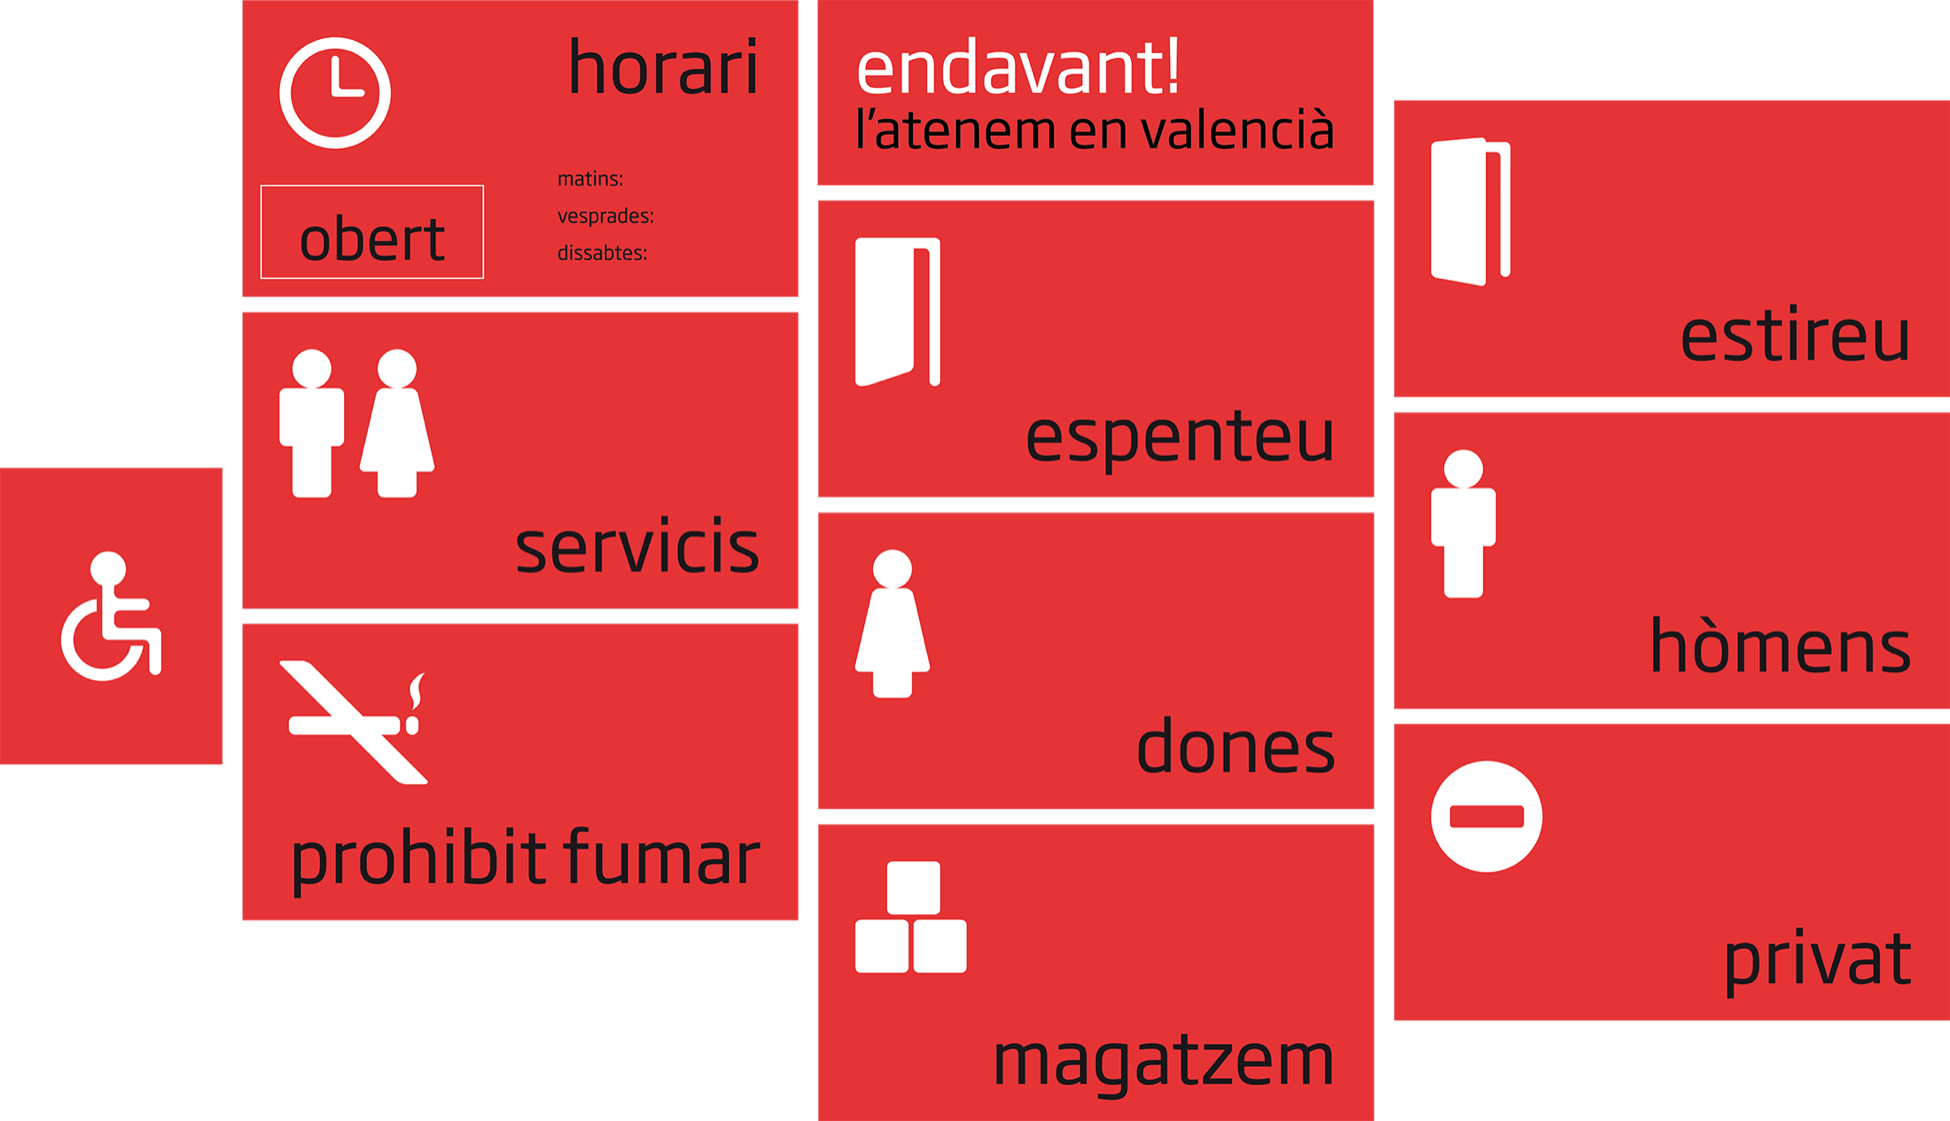
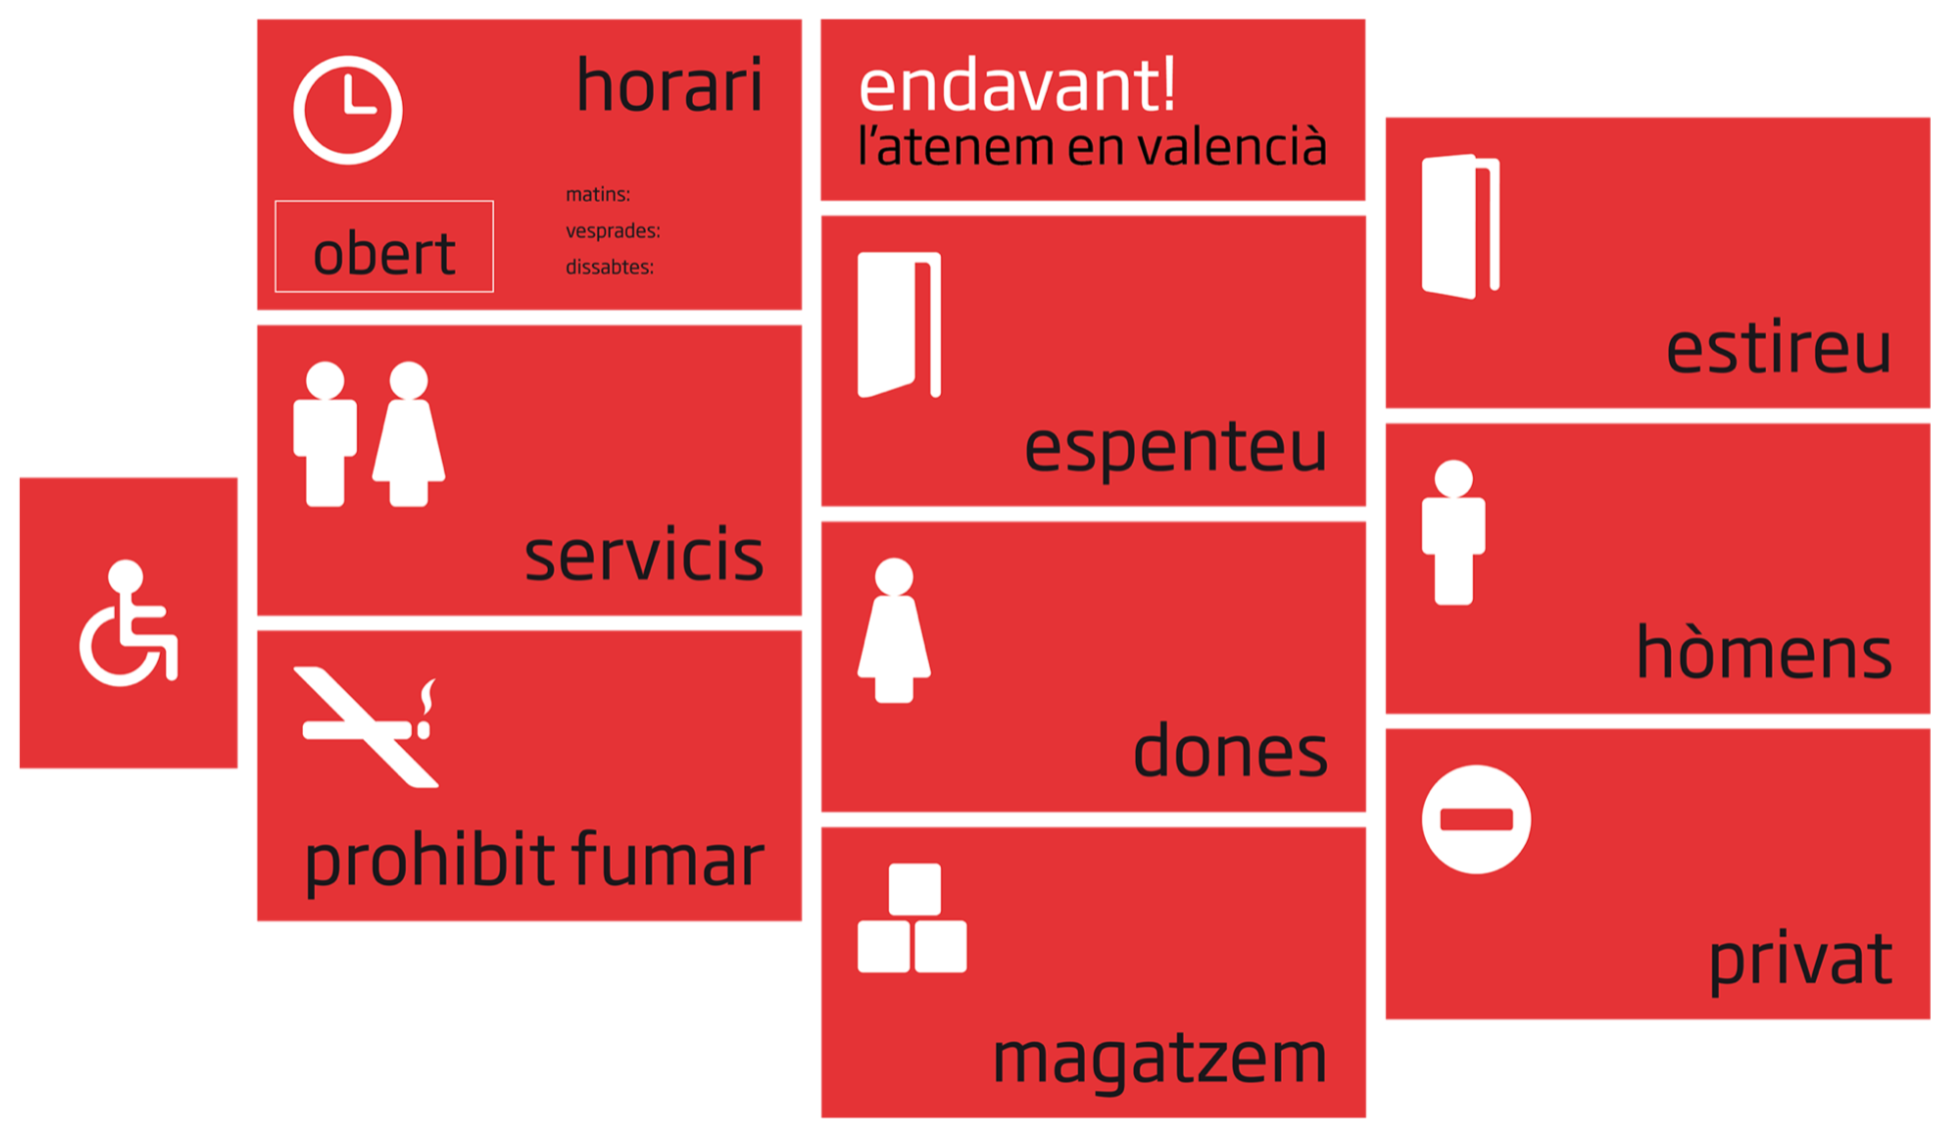
feat: color tweaks
- background is a faint version of the primary color instead of white
- replace light version of primary with dark version for better contrast/accesibility
- slight adjustment to anchor color
- add border to images in project pages

Changed region(s): [[0.0, 0.0, 1.0, 1.0]]

diff --git a/src/styles/globals.scss b/src/styles/globals.scss
@@ -1,13 +1,13 @@
 :root {
-	--color-background: hsl(0deg, 0%, 100%);
+	--color-anchor: hsl(from var(--color-primary) calc(h + 185) s calc(l - 15));
+	--color-background: hsl(from var(--color-primary) h s calc(l + 40));
 	--color-background-dark: hsl(from var(--color-background) h s calc(l - 10));
-	--color-primary: hsl(28.5deg, 91.74%, 57.25%);
-	--color-primary-light: hsl(from var(--color-primary) h s calc(l + 20));
 	--color-foreground: hsl(
 		from var(--color-primary) calc(h + 165) s calc(l - 45)
 	);
 	--color-foreground-light: hsl(from var(--color-foreground) h s calc(l + 15));
-	--color-anchor: hsl(from var(--color-primary) calc(h + 180) s calc(l - 20));
+	--color-primary: hsl(28.5deg, 91.74%, 57.25%);
+	--color-primary-dark: hsl(from var(--color-primary) h s calc(l - 20));
 	--cubic-bezier-ease-in: cubic-bezier(0.3, 0, 1, 1);
 	--cubic-bezier-ease-out: cubic-bezier(0, 0, 0.7, 1);
 	--font-stack-sans: 'Source Sans 3', 'Source Sans 3 Fallback', sans-serif;

diff --git a/src/styles/project-page.module.scss b/src/styles/project-page.module.scss
@@ -4,6 +4,8 @@
 	@extend %text-wrap;
 
 	img {
+		background: #fff;
+		border: 1px solid var(--color-background-dark);
 		border-radius: var(--spacing);
 		height: auto;
 		margin-top: var(--margin-extrasmall);
@@ -12,10 +14,6 @@
 
 	:global(.two-col-images) {
 		margin-top: var(--margin-extrasmall);
-
-		img {
-			border: 1px solid var(--color-background-dark);
-		}
 	}
 }
 

diff --git a/src/layouts/layout.module.scss b/src/layouts/layout.module.scss
@@ -1,5 +1,5 @@
 .header {
-	--color-anchor: var(--color-primary-light);
+	--color-anchor: var(--color-primary-dark);
 	align-items: baseline;
 	display: flex;
 	flex-wrap: wrap;
@@ -46,7 +46,7 @@
 }
 
 .footer {
-	color: var(--color-foreground-light);
+	color: var(--color-primary-dark);
 	display: flex;
 	flex-direction: column;
 	font-size: 0.8rem;

diff --git a/src/components/experience-list.module.scss b/src/components/experience-list.module.scss
@@ -19,11 +19,6 @@
 }
 
 .experience-item-date {
+	color: var(--color-primary-dark);
 	font-size: 0.8em;
-	font-style: normal;
-
-	&::before {
-		color: var(--color-primary);
-		content: '— ';
-	}
 }

diff --git a/src/styles/home-page.module.scss b/src/styles/home-page.module.scss
@@ -19,6 +19,7 @@
 	grid-row: 1;
 
 	img {
+		filter: drop-shadow(0 0 var(--spacing) #fff);
 		height: 5em;
 		margin: auto;
 		vertical-align: bottom;
